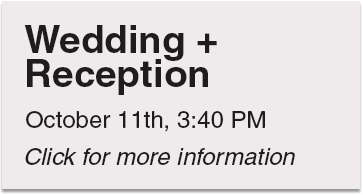
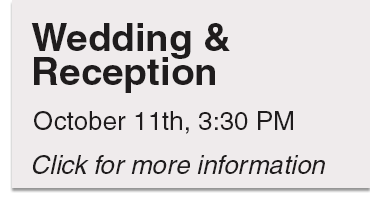
Update event start time and image plaques

diff --git a/src/app/events/page.tsx b/src/app/events/page.tsx
@@ -39,7 +39,7 @@ const eventDetails: EventDetail[] = [
   {
     id: 'hindu-ceremony',
     photo: '/images/events/Events-photo1.png',
-    plaque: '/images/events/events-plaque1.png',
+    plaque: '/images/events/events-plaque4.png',
     altPhoto: 'Hindu Ceremony photo',
     altPlaque: 'Hindu Ceremony plaque',
     title: 'Hindu Ceremony',
@@ -64,11 +64,11 @@ const eventDetails: EventDetail[] = [
     altPlaque: 'Wedding + Reception plaque',
     title: 'Wedding and Reception',
     date: 'Saturday, October 11, 2025',
-    time: '3:40 PM',
+    time: '3:30 PM',
     locationName: 'Art Gallery of Hamilton',
     locationAddress: '123 King Street West, Hamilton, Ontario L8P 4S8',
     schedule: [
-      '3:40 PM: Arrive and settle in, find a seat!',
+      '3:30 PM: Arrive and settle in, find a seat!',
       '4:00 PM: Ceremony',
       '5:00 PM: Cocktail hour & explore the art gallery!',
       '6:00 PM: Reception, dinner, dancing 🎉',

diff --git a/functions/src/index.ts b/functions/src/index.ts
@@ -93,7 +93,7 @@ const weddingReceptionDetails = {
   title: "Wedding Ceremony & Reception - Chelsea & Neil",
   description: "Celebrate with Chelsea and Neil at their wedding ceremony, followed by cocktail hour, dinner, and dancing!",
   location: "Art Gallery of Hamilton, 123 King Street West, Hamilton, Ontario L8P 4S8",
-  start: [2025, 10, 11, 16, 0],
+  start: [2025, 10, 11, 15, 30],
   end: [2025, 10, 12, 1, 0],
   startInputType: "local",
   endInputType: "local",
